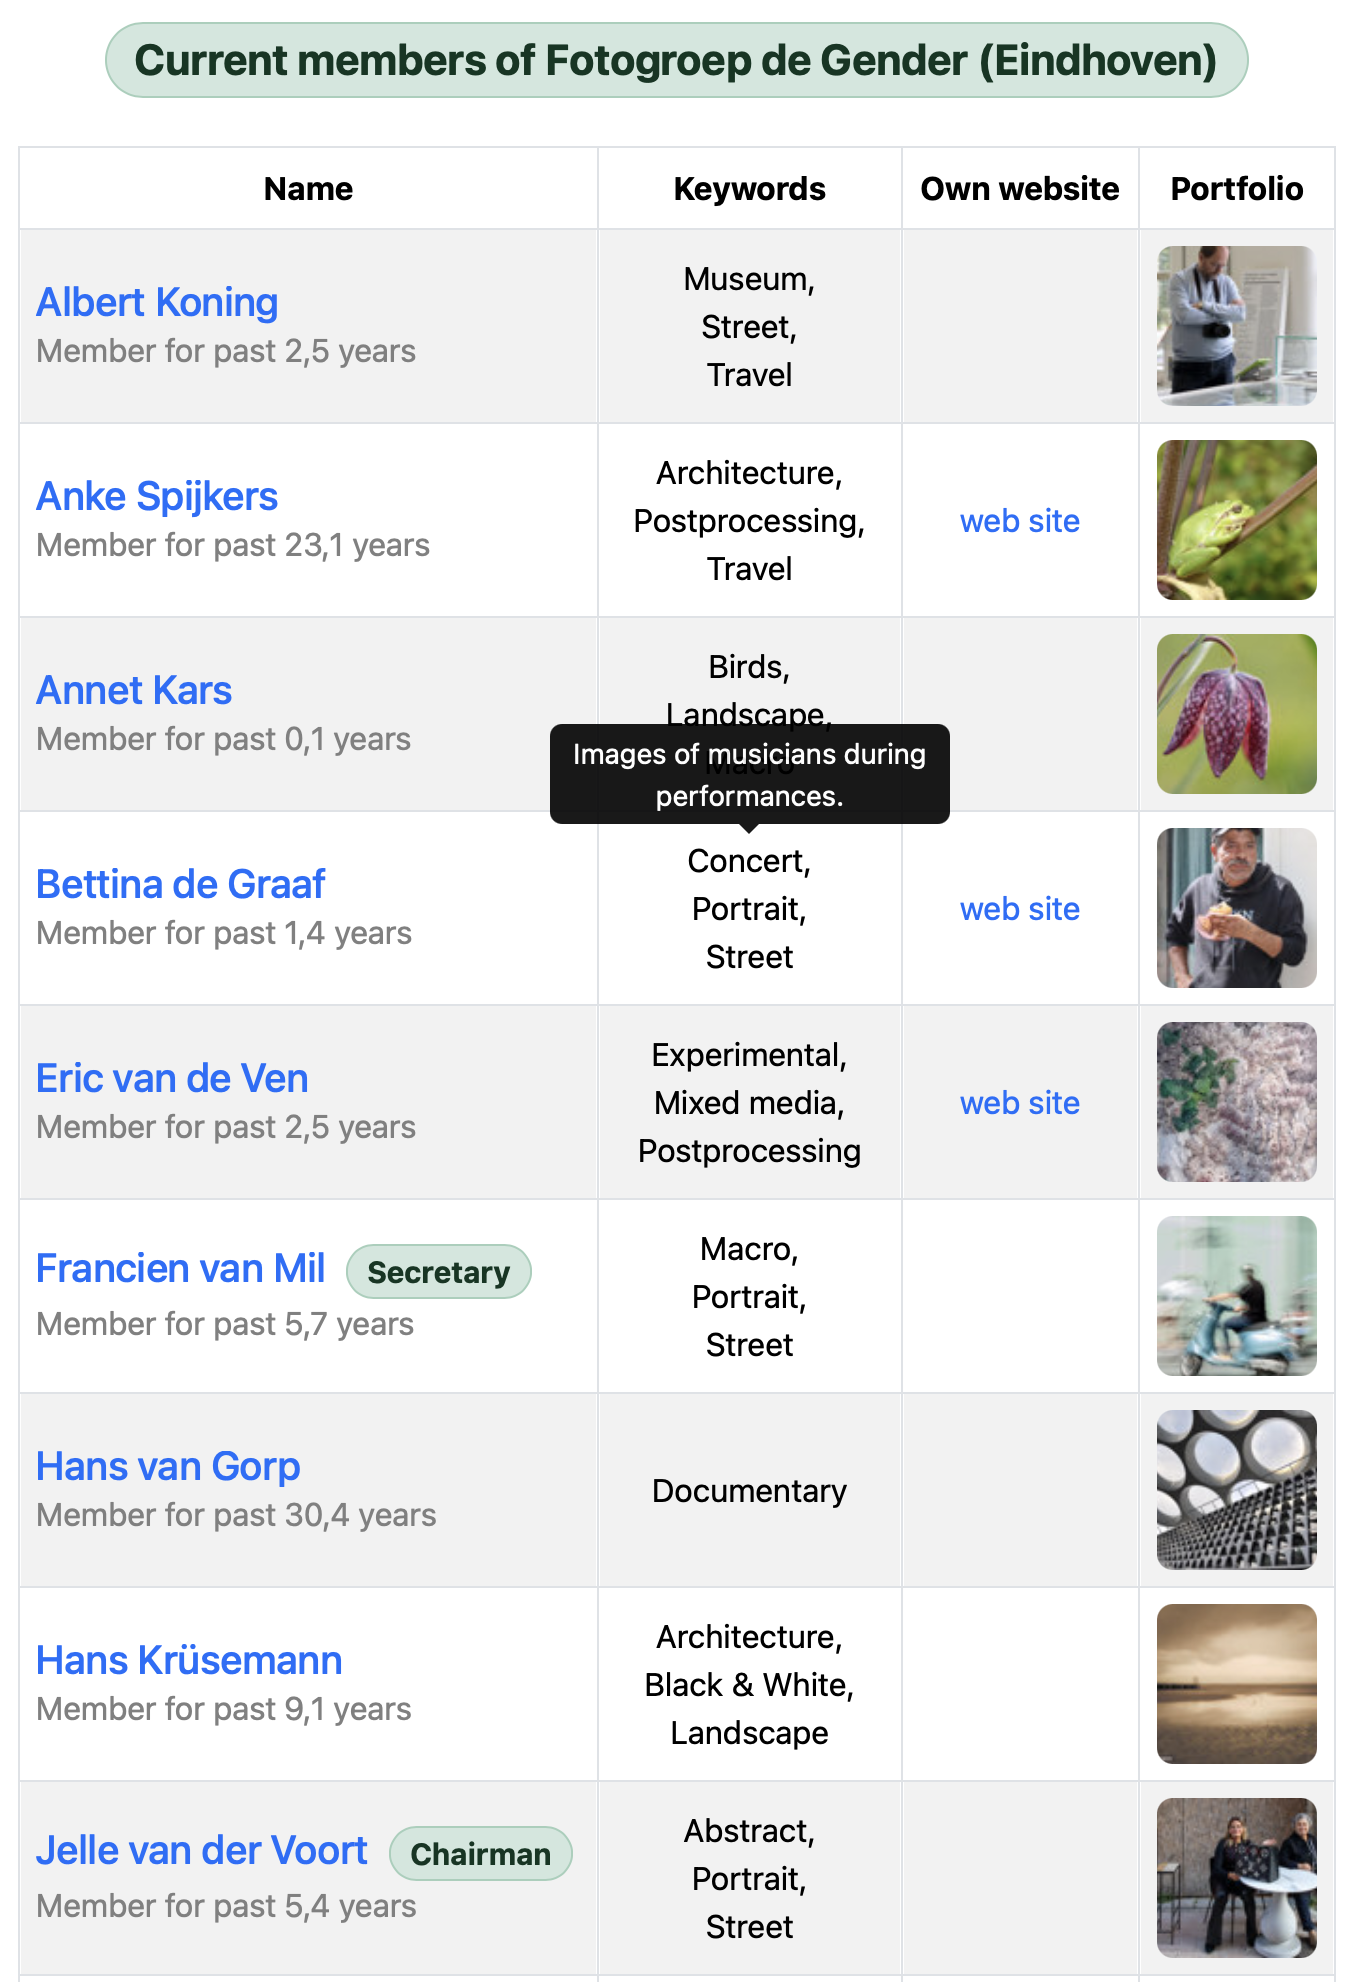
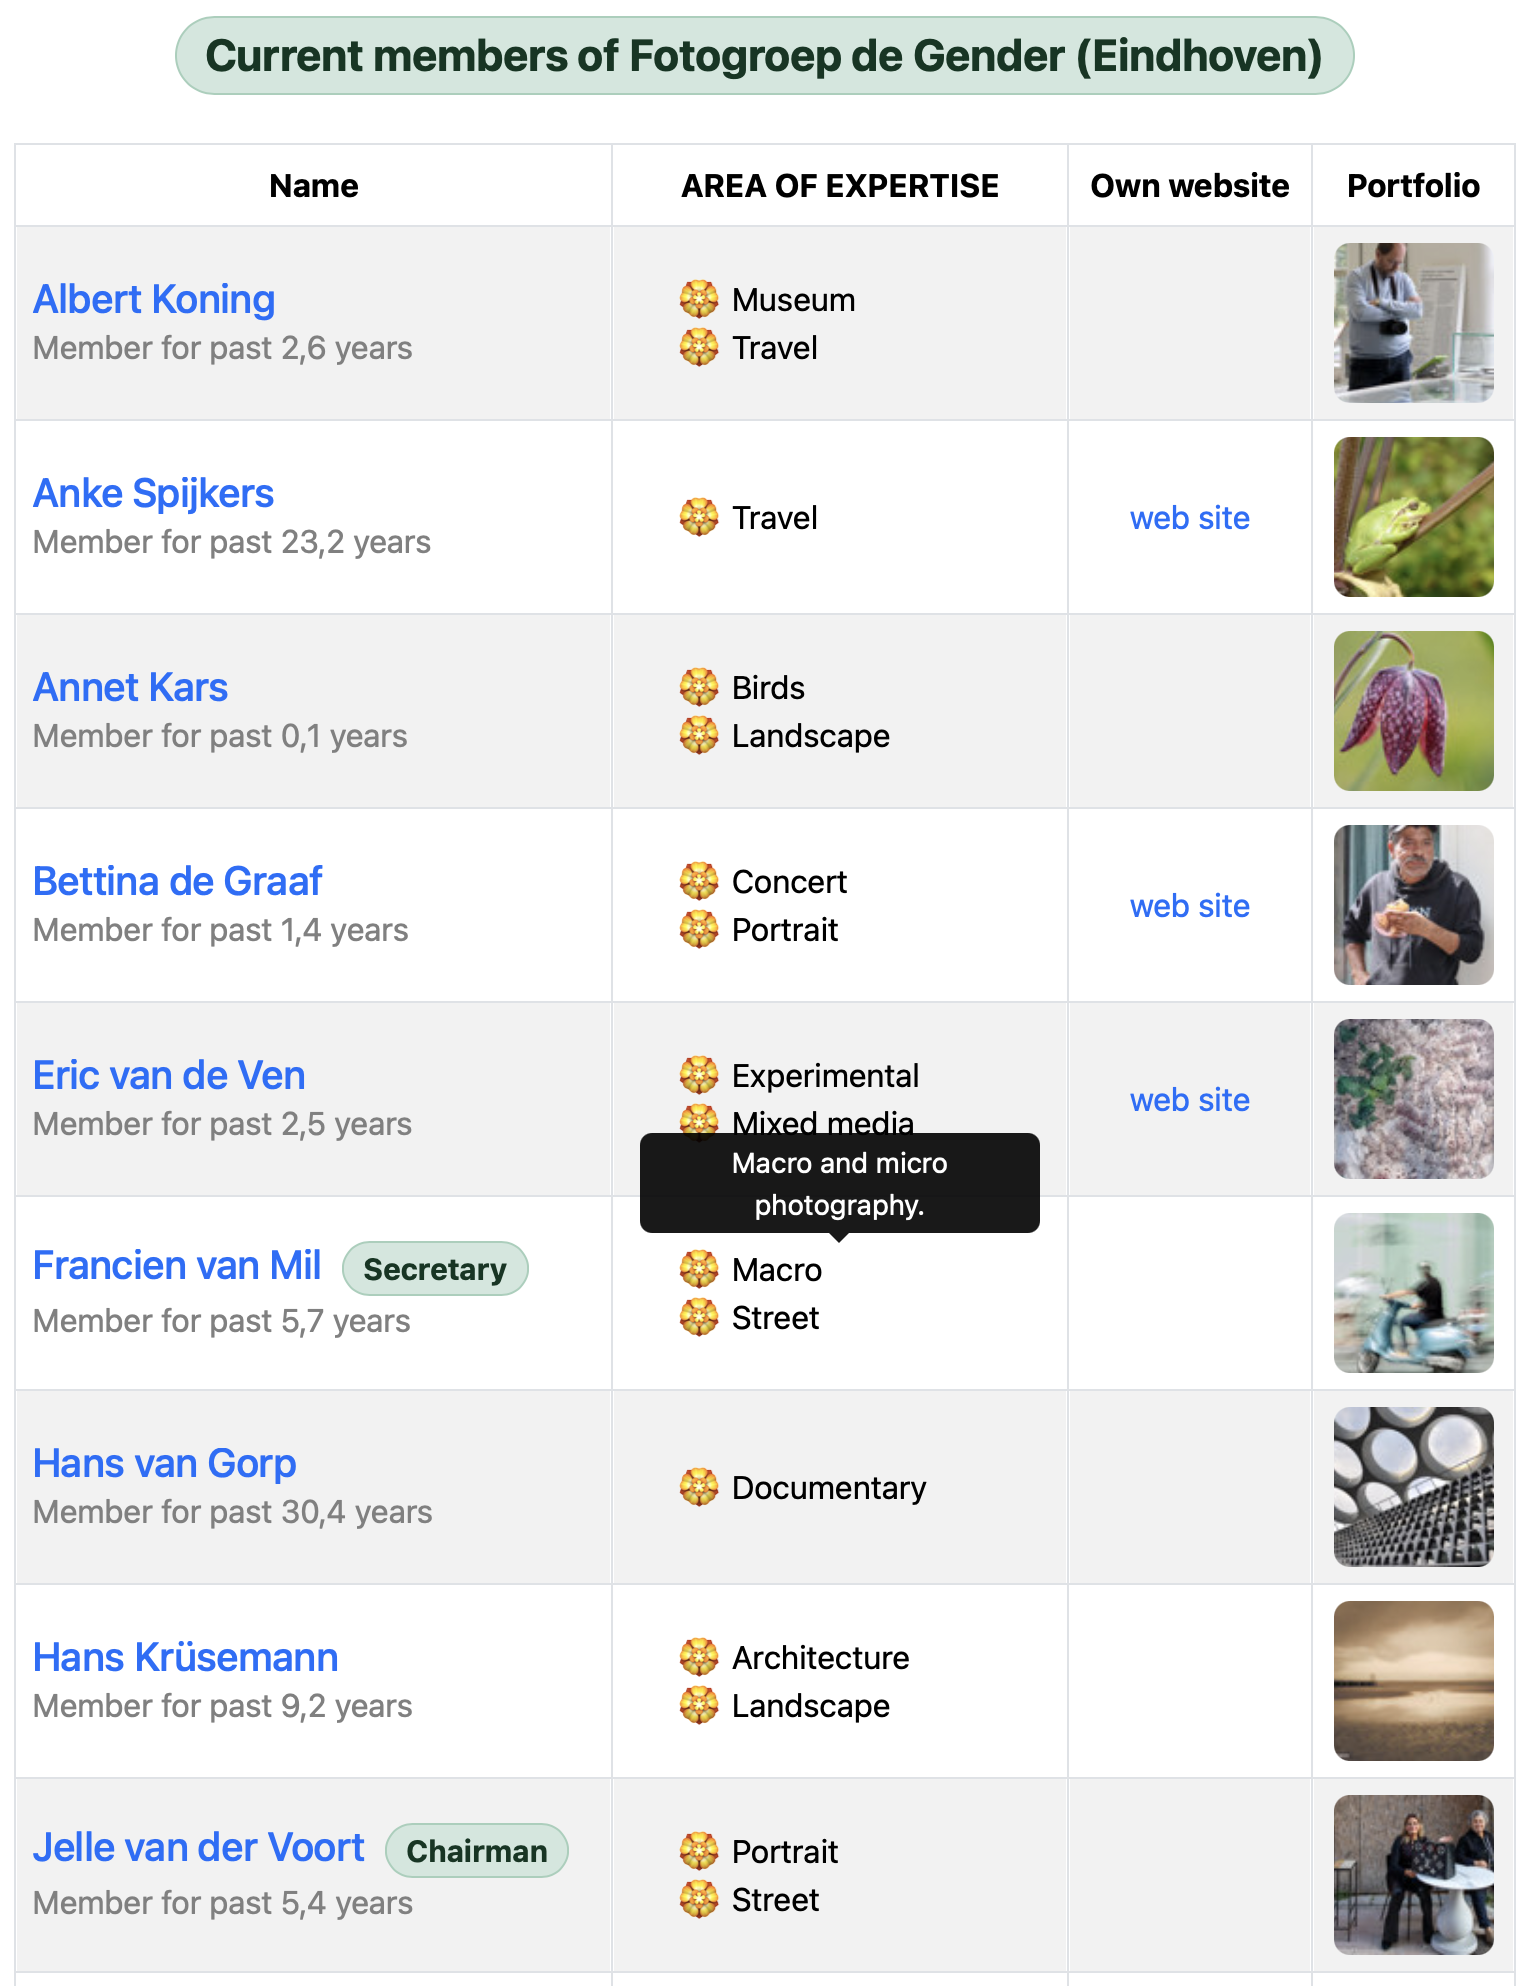
New screenshot for GitHub readme

diff --git a/Photo Club Hub HTML/IgniteSource/Members+makeTable.swift b/Photo Club Hub HTML/IgniteSource/Members+makeTable.swift
@@ -186,9 +186,10 @@ extension Members {
 
                 if localizedKeywordHint != nil {
                     returnResult.append(Text(localizedKeywordString) // we can show a normal or warning usage hint
-                        .padding(.none)
+                        .padding(.leading, .large)
                         .margin(0)
                         .hint(text: localizedKeywordHint!)
+                        .horizontalAlignment(.leading)
                     )
                 } else { // omit hint if there is no usage string provided
                    returnResult.append(Text(localizedKeywordString) // we can show a normal or warning usage hint

diff --git a/Photo Club Hub HTML/IgniteSource/Site.swift b/Photo Club Hub HTML/IgniteSource/Site.swift
@@ -14,7 +14,7 @@ import Photo_Club_Hub_Data // for Organization
 
 struct MemberSite: Site {
     var name = "Leden"
-    // IMPORTANT: http://www.vdhamer.com gives localhost result, http://www.vdhamer.com works on remote site
+    // IMPORTANT: http://www.vdhamer.com gives localhost result, http://www.vdhamer.com/fgDeGender works on remote site
     var url: URL = URL("http://www.vdhamer.com")
     var builtInIconsEnabled: BootstrapOptions = .none
     var author = "Peter van den Hamer"
